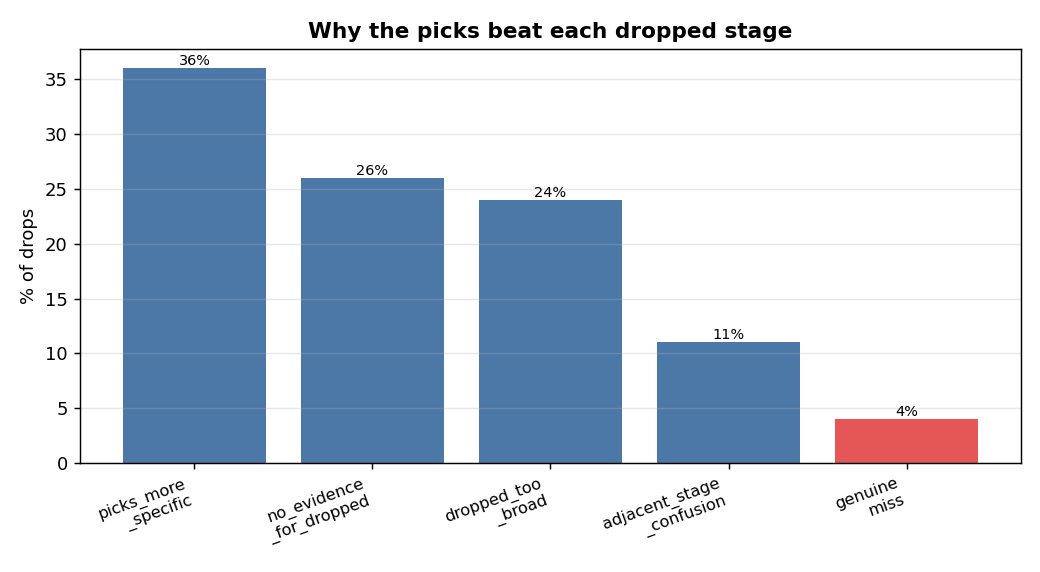
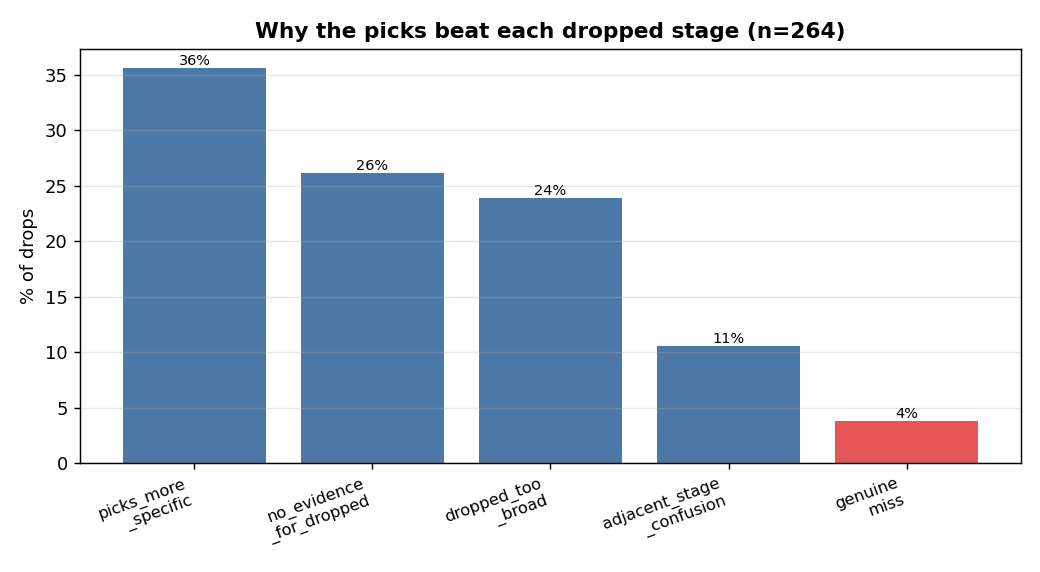
Stage EDA: show exact counts + n + rounding note (the 101% was rounding)
The swap (n=264) and grounding (n=259) shares were each rounded to whole numbers and summed to
~101%. Added the raw counts and an explicit 'shares rounded' note to both tables, and the swap
chart now plots exact percentages from counts with n in the title. Re-rendered HTML + PDF.

diff --git a/scripts/build_stage_charts.py b/scripts/build_stage_charts.py
@@ -95,18 +95,20 @@ def grounding() -> None:
     fig.tight_layout(); fig.savefig(_OUT / "grounding.png", dpi=130); plt.close(fig)
 
 
-# Swap reasons after prune.
+# Swap reasons after prune - raw counts (n=264) so the bars are exact, not rounded to 101%.
 SWAP = [
-    ("picks_more\n_specific", 36), ("no_evidence\n_for_dropped", 26), ("dropped_too\n_broad", 24),
-    ("adjacent_stage\n_confusion", 11), ("genuine\nmiss", 4),
+    ("picks_more\n_specific", 94), ("no_evidence\n_for_dropped", 69), ("dropped_too\n_broad", 63),
+    ("adjacent_stage\n_confusion", 28), ("genuine\nmiss", 10),
 ]
+_SWAP_N = sum(v for _, v in SWAP)
 
 
 def swap() -> None:
     labels = [r[0] for r in SWAP]
+    pct = [100 * v / _SWAP_N for _, v in SWAP]
     fig, ax = plt.subplots(figsize=(8, 4.4))
-    _bar(ax, labels, [r[1] for r in SWAP], "% of drops",
-         "Why the picks beat each dropped stage", fmt="{:.0f}%",
+    _bar(ax, labels, pct, "% of drops",
+         f"Why the picks beat each dropped stage (n={_SWAP_N})", fmt="{:.0f}%",
          highlight="genuine\nmiss", color="#4C78A8")
     fig.tight_layout(); fig.savefig(_OUT / "swap.png", dpi=130); plt.close(fig)
 

diff --git a/docs/stage_selection_eda.md b/docs/stage_selection_eda.md
@@ -106,25 +106,26 @@ model change. The post-prune numbers are the **fair baseline**: the model agains
 
 ![Grounding](stage_charts/grounding.png)
 
-On the answerable stages (post-prune), the drops break down as:
+On the answerable stages (post-prune), the drops break down as (n = 259 classified; shares rounded):
 
-| grounding | share | meaning |
-|---|---|---|
-| **no_context_for_stage** | **41%** | no ticket evidence — the BA's outside-knowledge pick (label noise) |
-| context_present_but_dropped | 40% | evidence shown, dropped anyway |
-| weak_broad_context | 20% | borderline |
+| grounding | count | share | meaning |
+|---|---|---|---|
+| **no_context_for_stage** | 105 | **41%** | no ticket evidence — the BA's outside-knowledge pick (label noise) |
+| context_present_but_dropped | 103 | 40% | evidence shown, dropped anyway |
+| weak_broad_context | 51 | 20% | borderline |
 
 ![Swap reasons](stage_charts/swap.png)
 
-And *why* the picks won over each dropped stage:
+And *why* the picks won over each dropped stage (n = 264; shares rounded to whole numbers, so they
+sum to ~101%):
 
-| reason | share | read |
-|---|---|---|
-| picks_more_specific | 36% | the model picked a **better/narrower** stage — often the model being right |
-| no_evidence_for_dropped | 26% | nothing in the ticket points to the dropped stage |
-| dropped_too_broad | 24% | the GT stage is broad/adjacent, only loosely implied |
-| adjacent_stage_confusion | 11% | a neighbouring lifecycle stage picked instead (the one fixable lever) |
-| **dropped_is_valid_should_have_picked** | **4%** | **genuine model misses** |
+| reason | count | share | read |
+|---|---|---|---|
+| picks_more_specific | 94 | 36% | the model picked a **better/narrower** stage — often the model being right |
+| no_evidence_for_dropped | 69 | 26% | nothing in the ticket points to the dropped stage |
+| dropped_too_broad | 63 | 24% | the GT stage is broad/adjacent, only loosely implied |
+| adjacent_stage_confusion | 28 | 11% | a neighbouring lifecycle stage picked instead (the one fixable lever) |
+| **dropped_is_valid_should_have_picked** | **10** | **4%** | **genuine model misses** |
 
 **So ~40% of drops are un-derivable from the ticket, most of the rest is the model making defensible
 narrower picks, and only ~4% are genuine misses.** The one fixable lever — adjacent-stage confusion —